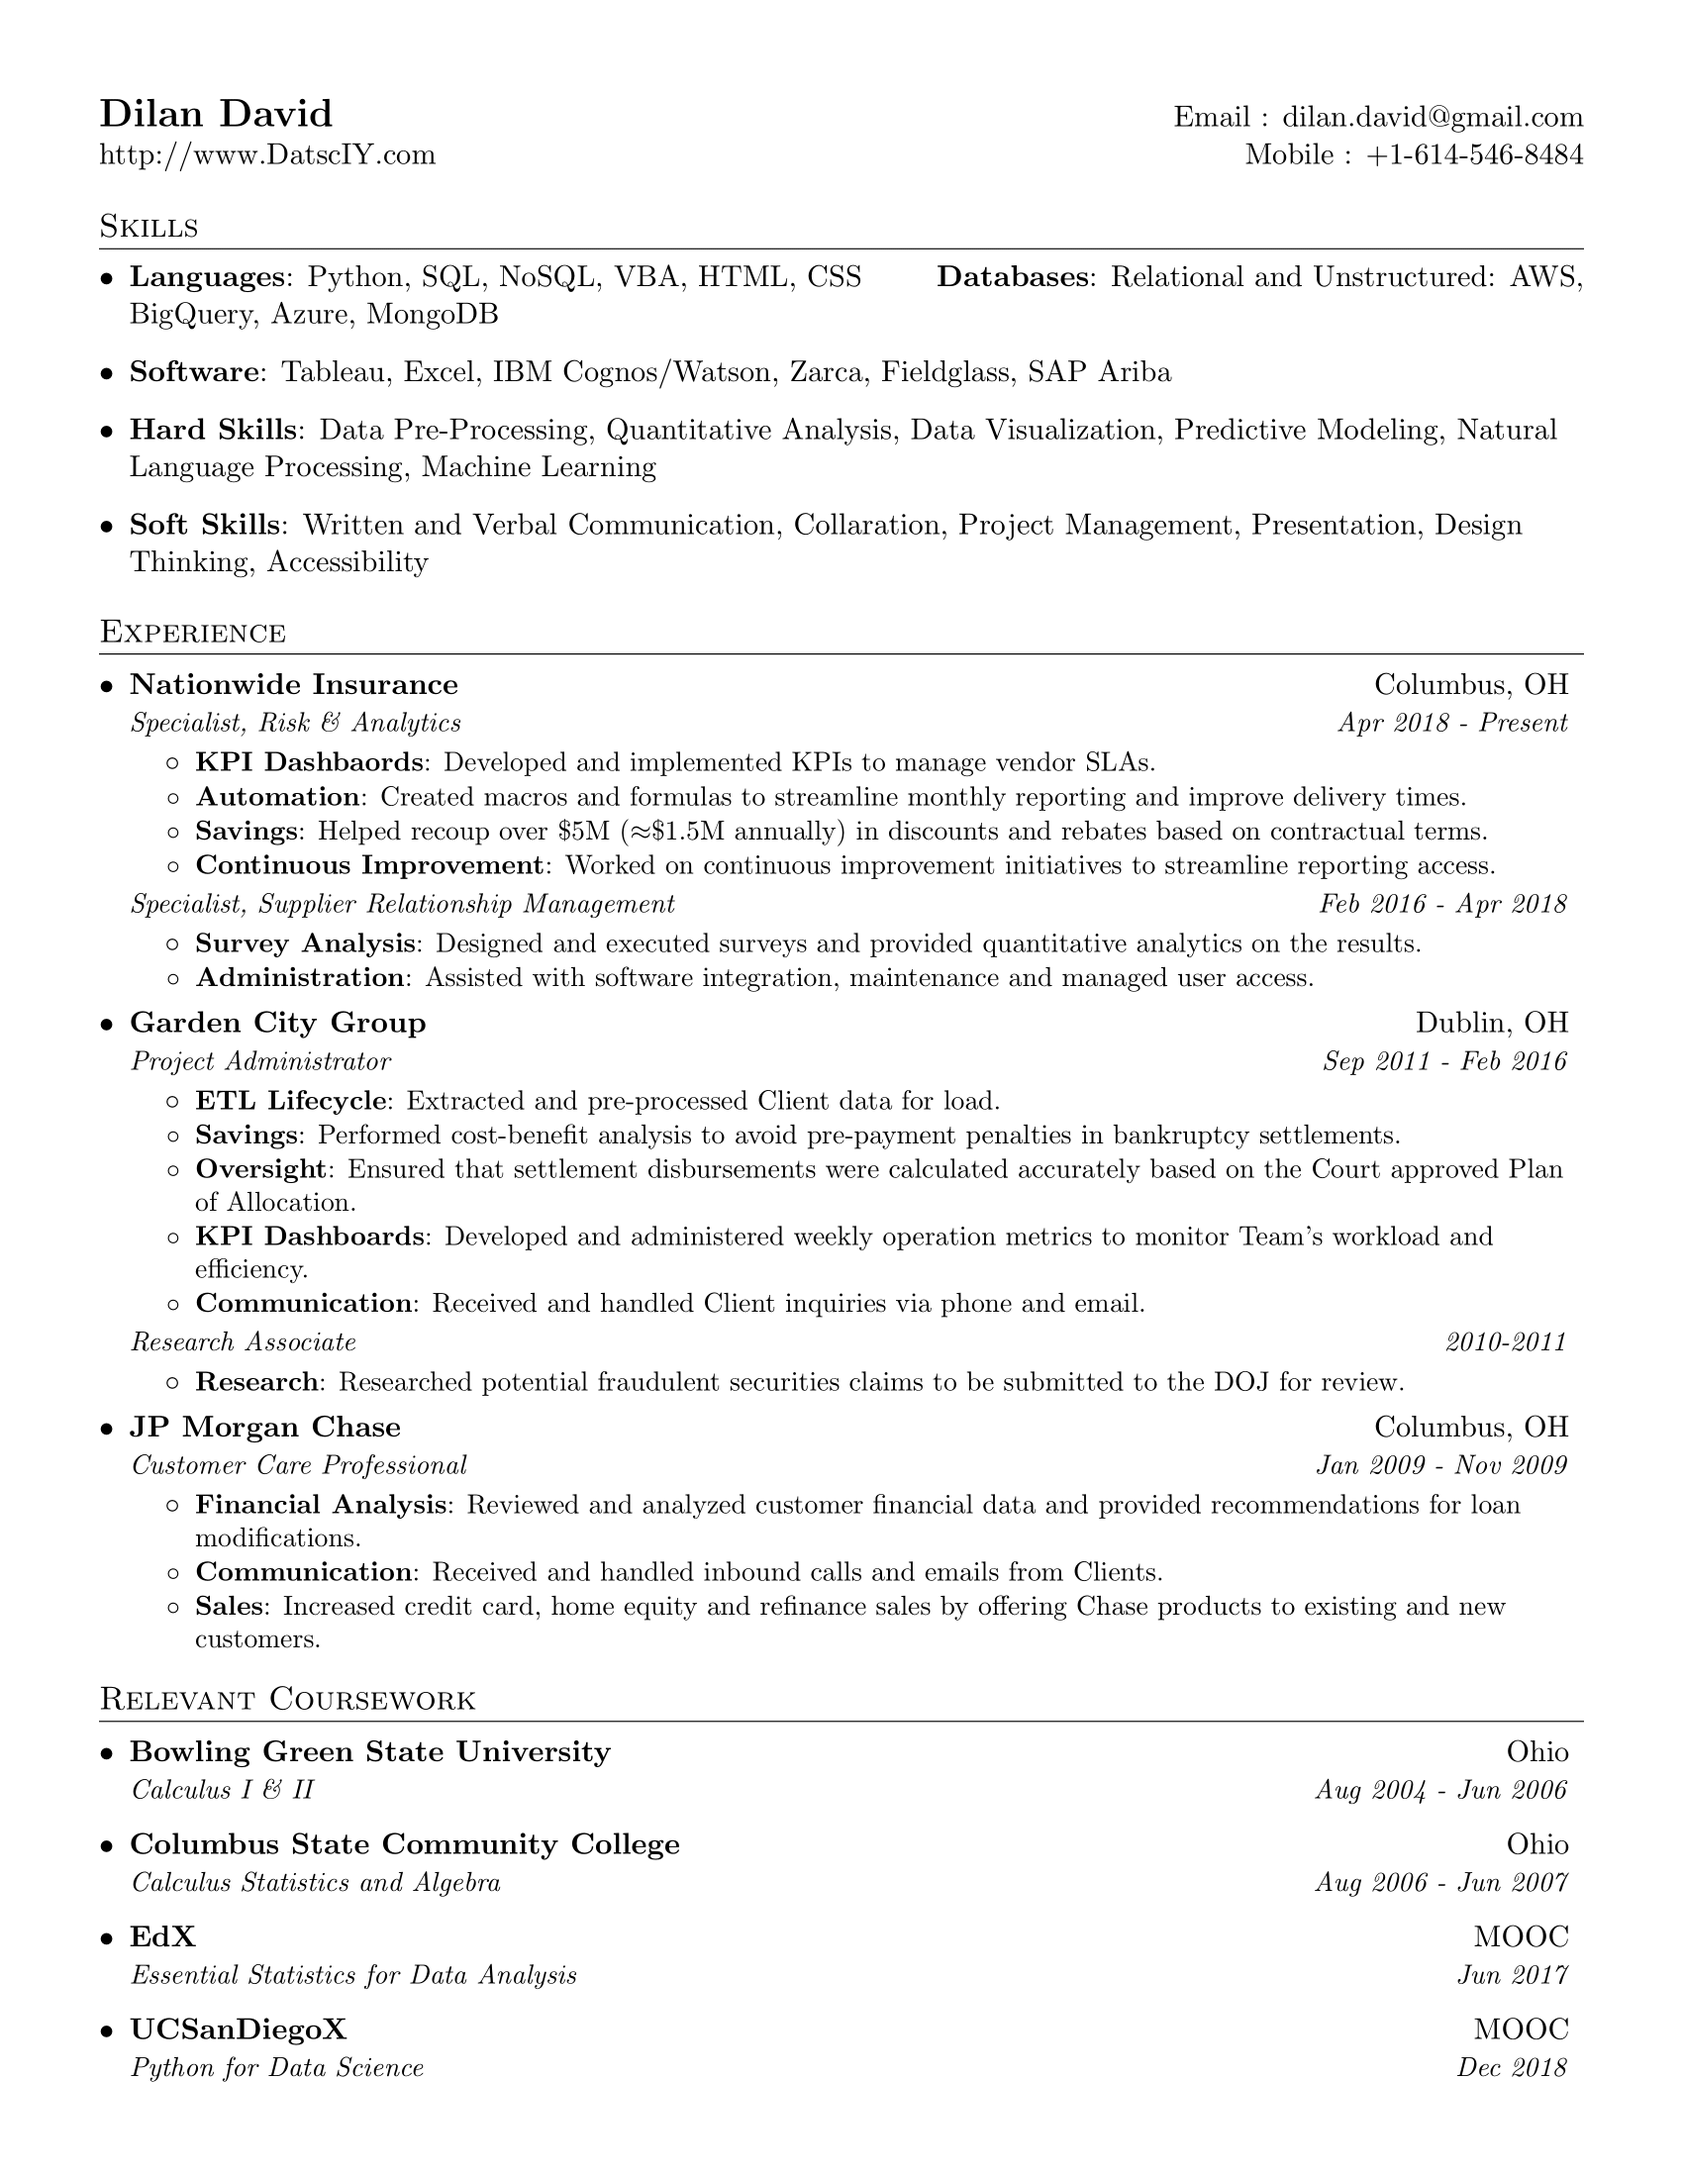
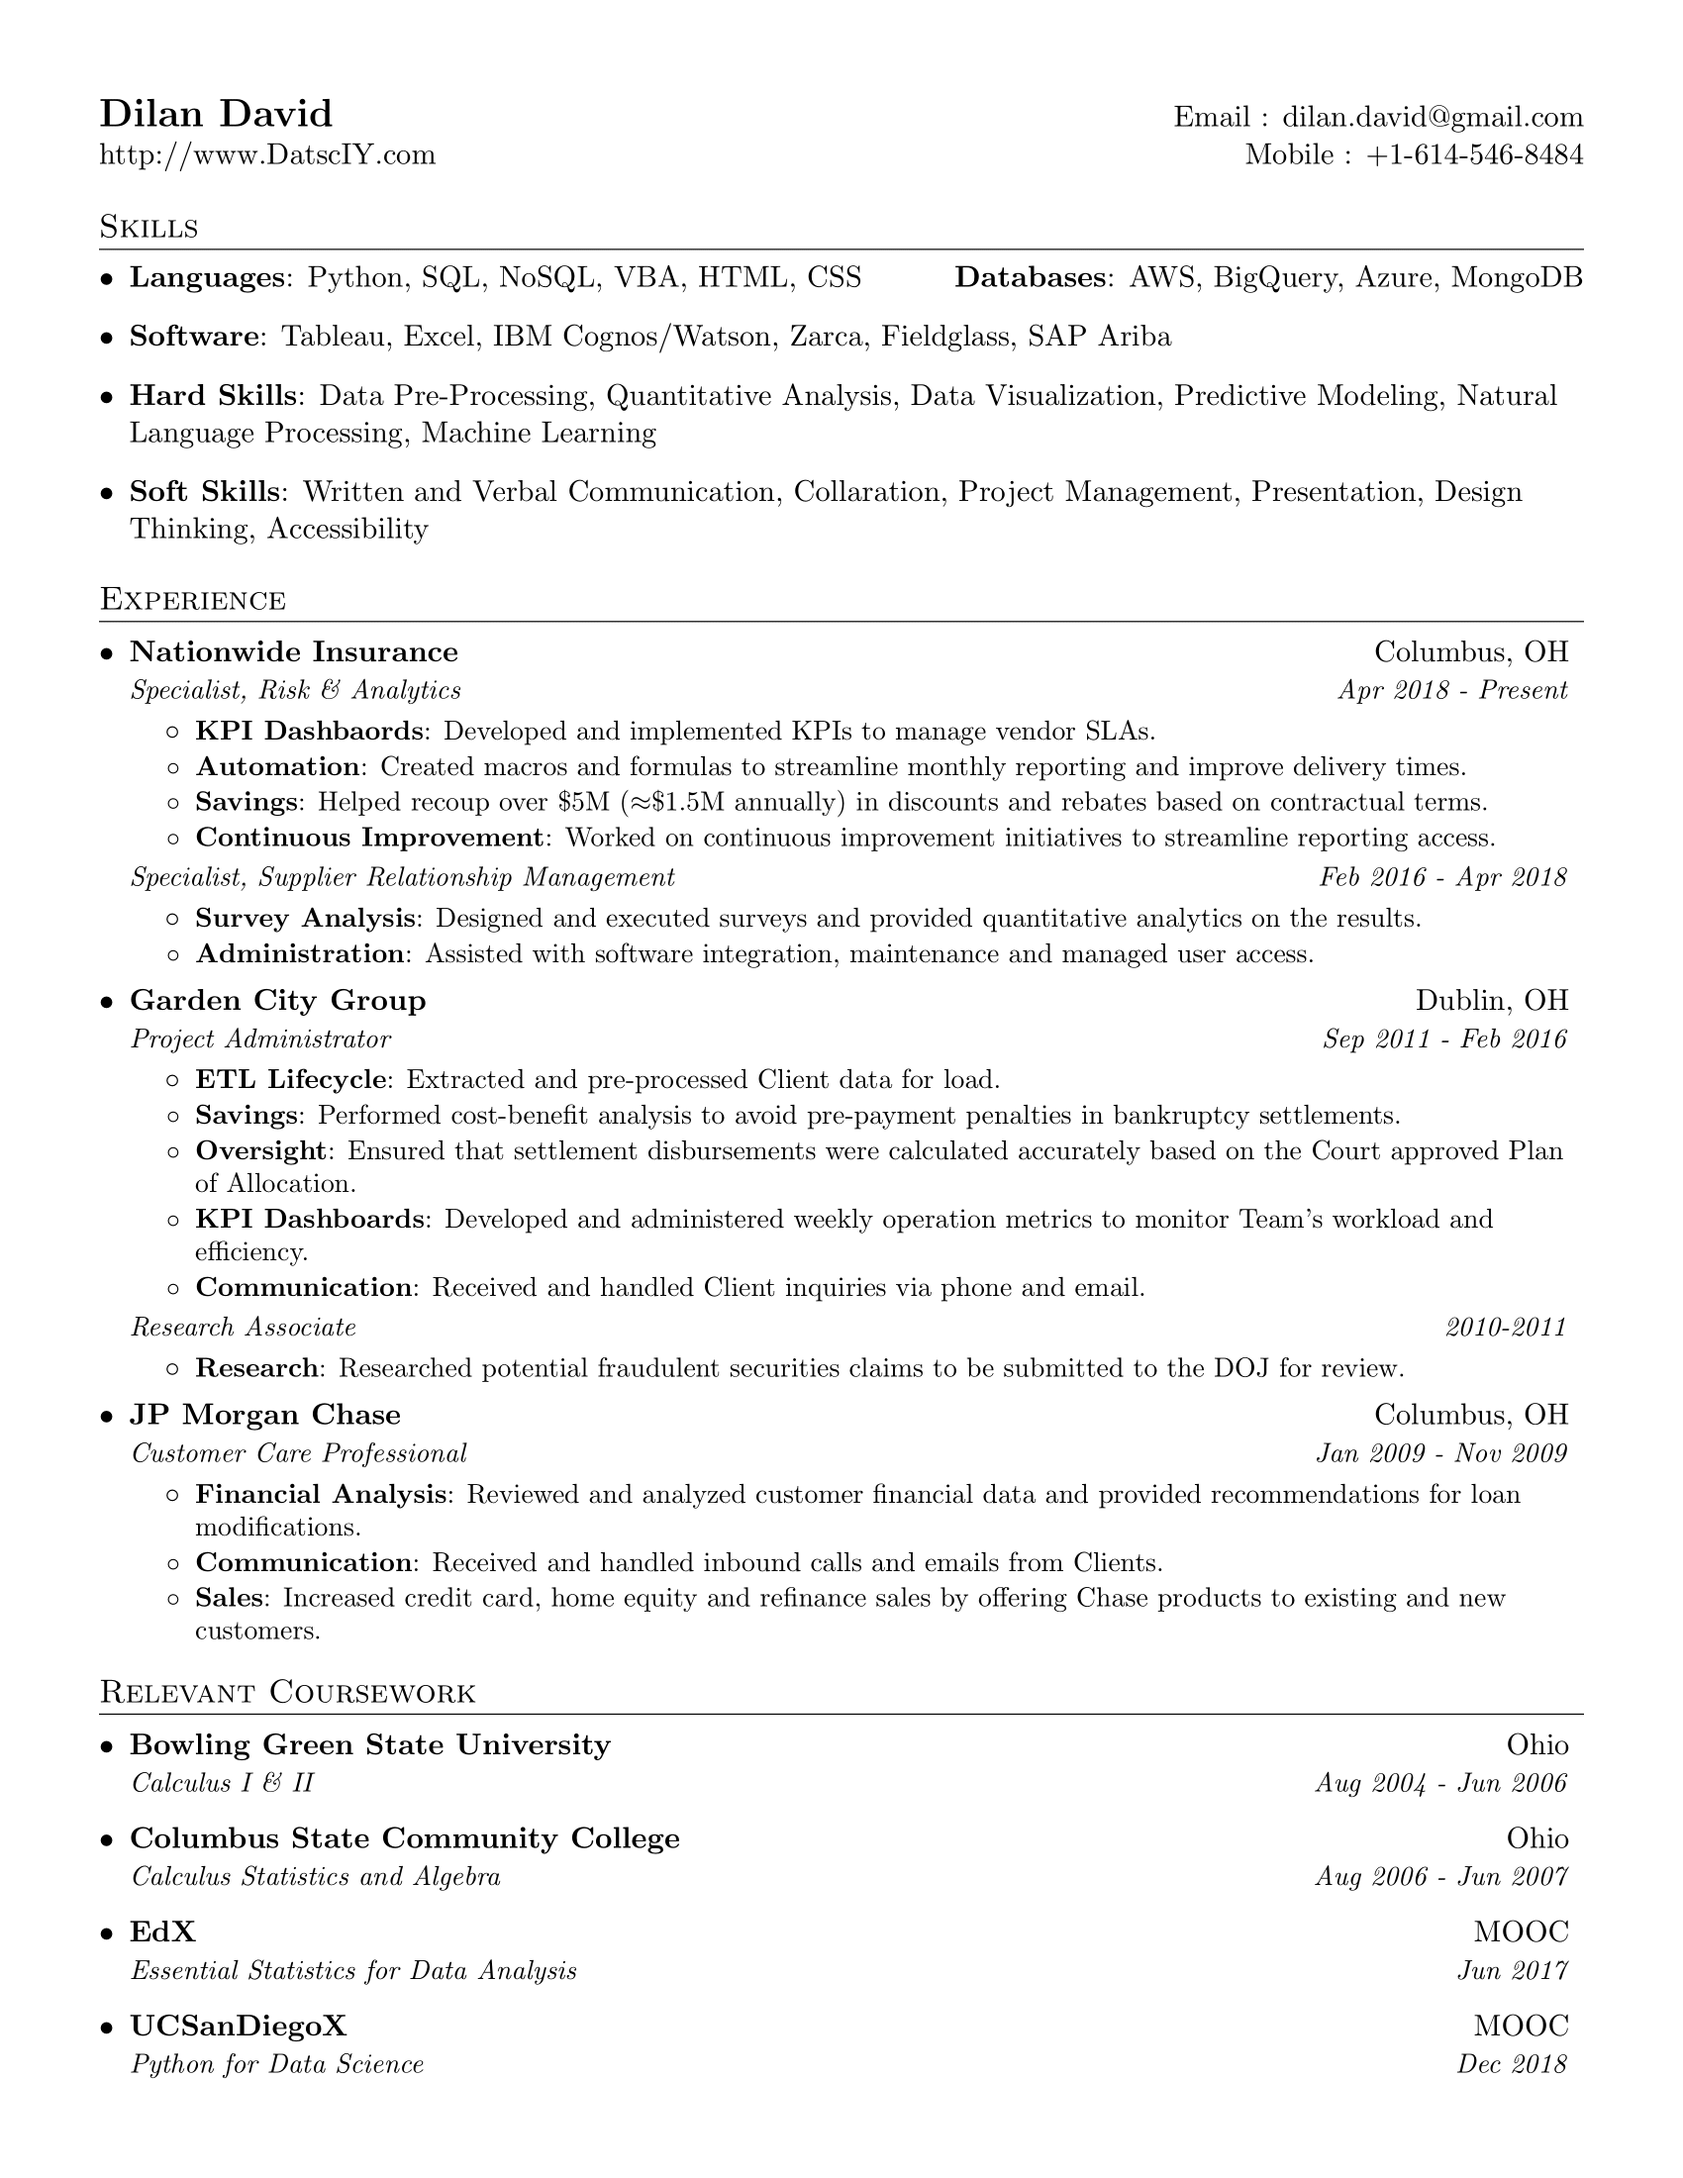
Updated DB formatting

diff --git a/Dilan_David_resume.tex b/Dilan_David_resume.tex
@@ -90,7 +90,7 @@
     \item{
       \textbf{Languages}{: Python, SQL, NoSQL, VBA, HTML, CSS}
       \hfill
-      \textbf{Databases}{: Relational and Unstructured: AWS, BigQuery, Azure, MongoDB}\\
+      \textbf{Databases}{: AWS, BigQuery, Azure, MongoDB}\\
     }
     \item{
       \textbf{Software}{: Tableau, Excel, IBM Cognos/Watson, Zarca, Fieldglass, SAP Ariba}\\
